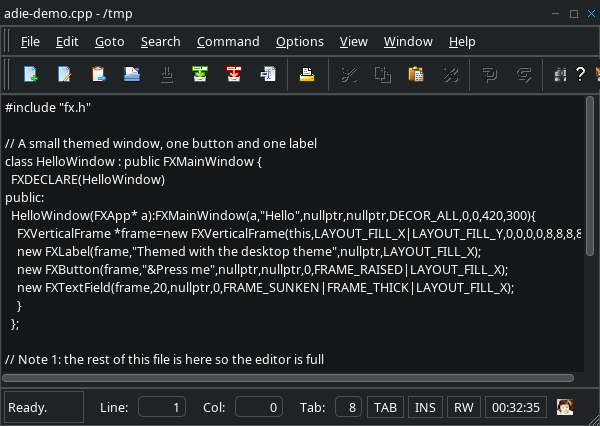
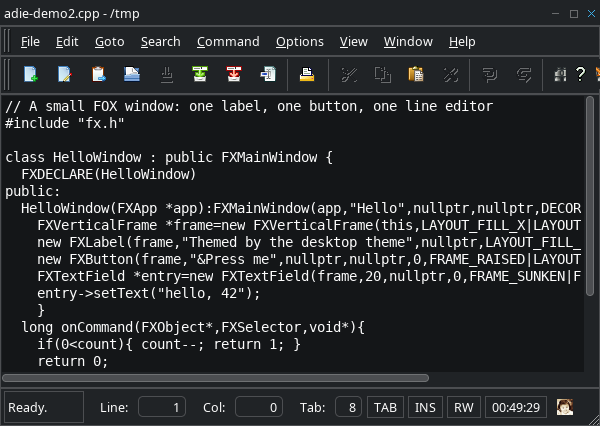
readme: adie with a monospace font and syntax colouring
The editor screenshots now come from adie configured the way it is meant to be
used: textfont=DejaVu Sans Mono and colorize=true in the settings, the syntax
file from the tree, and a source file open.  The monospace font stays with the
editor and the log pane, so the menus keep the interface font, and the syntax
colours show.

The dark screenshot leaves the colouring off, and the text says why: the syntax
colours are adie's own palette and do not follow a dark theme yet.

diff --git a/README.md b/README.md
@@ -68,12 +68,13 @@ like it belongs, without losing what makes FOX nice?**
 | | |
 |---|---|
 | ![The adie editor](screenshots/readme/themed-adie.png) | ![The calculator](screenshots/readme/themed-calculator.png) |
-| `adie`, the FOX editor, with its tool bar, editor page, scroll bars and status line | the calculator, every button rounded and flat |
+| `adie`, the FOX editor: themed chrome, a monospace editor font and syntax colouring | the calculator, every button rounded and flat |
 
 ### Dark themes
 
 The theme is imported, not approximated, so a dark theme changes the surfaces,
-the text, the menus and the tool tips together.
+the text, the menus and the tool tips together.  The editor's syntax colours are
+still its own palette and do not follow yet, so they are left off here.
 
 | | |
 |---|---|
@@ -136,7 +137,8 @@ desktop's light/dark preference.
 This is a playground, not a release: expect rough edges, half-finished widgets
 and a few corners of the toolkit that still paint the old way — the specialised
 dial and knob controls, for instance.  The popup drop shadow exists on Wayland
-and still has to come for X11 and Windows.
+and still has to come for X11 and Windows.  The editor's syntax colours are a
+palette of their own and have to be chosen for a dark theme by hand.
 
 The technical notes, including which widget is how far along and why some things
 are harder than they look, are in [docs/](docs/).
